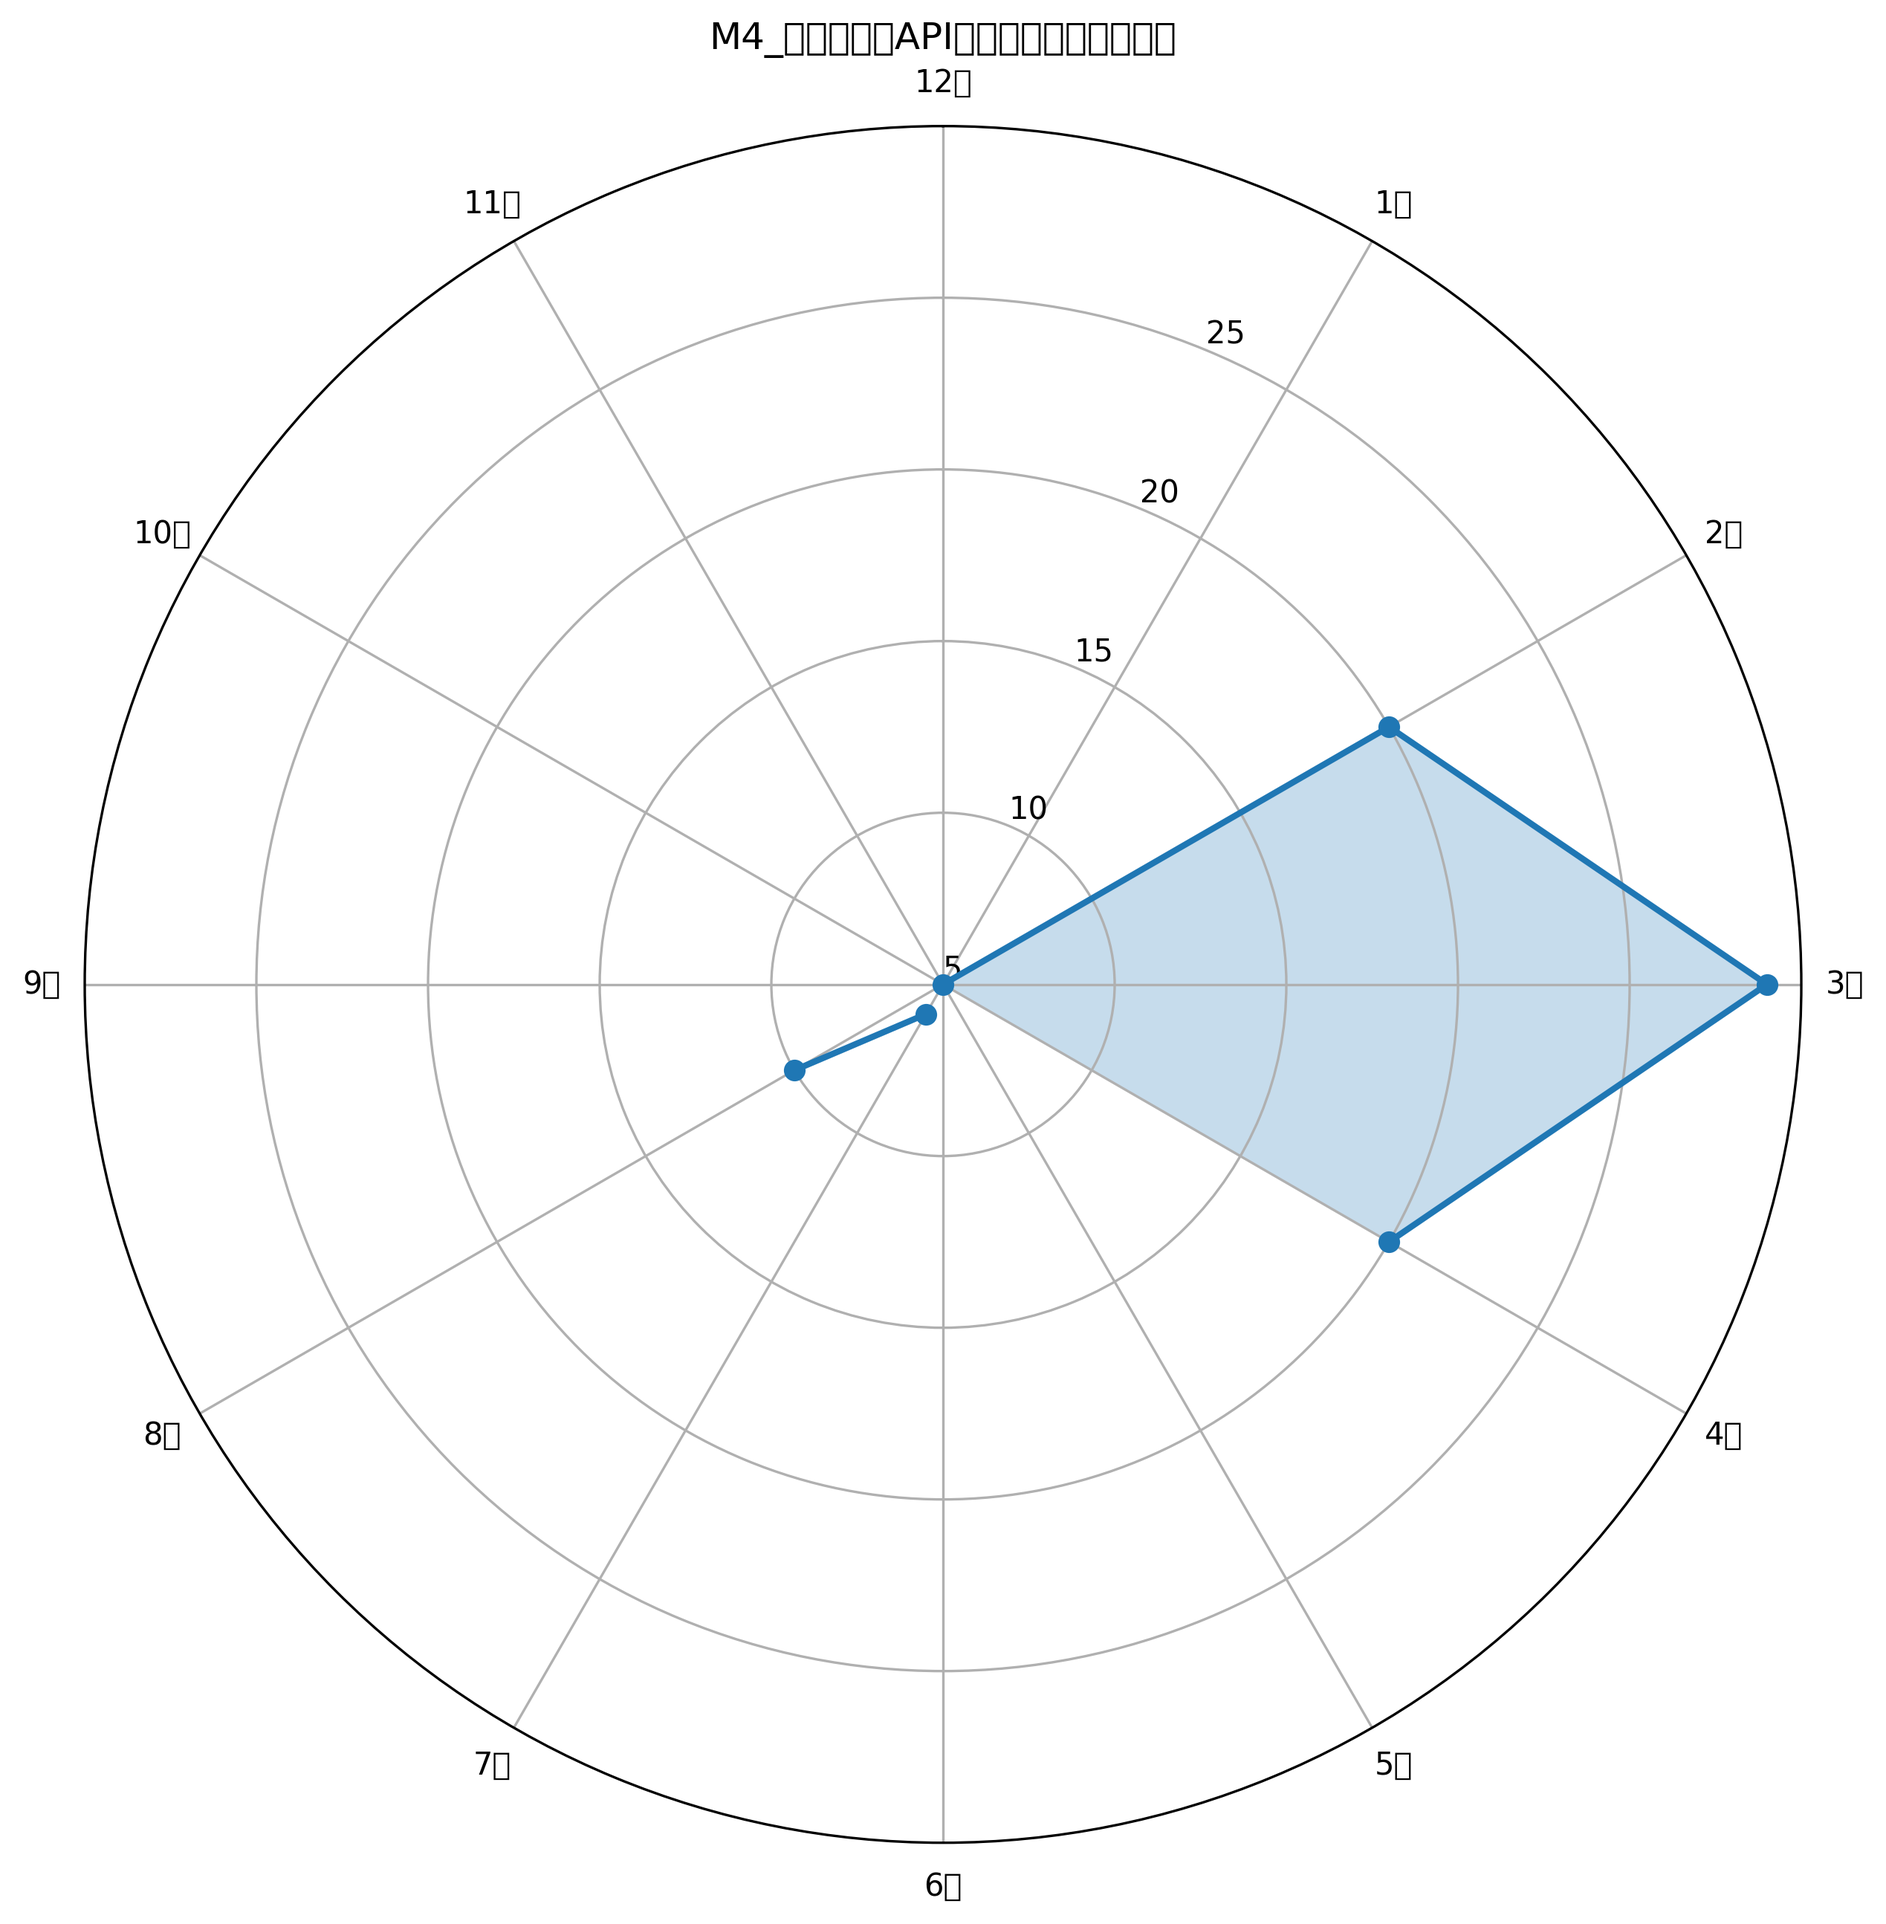
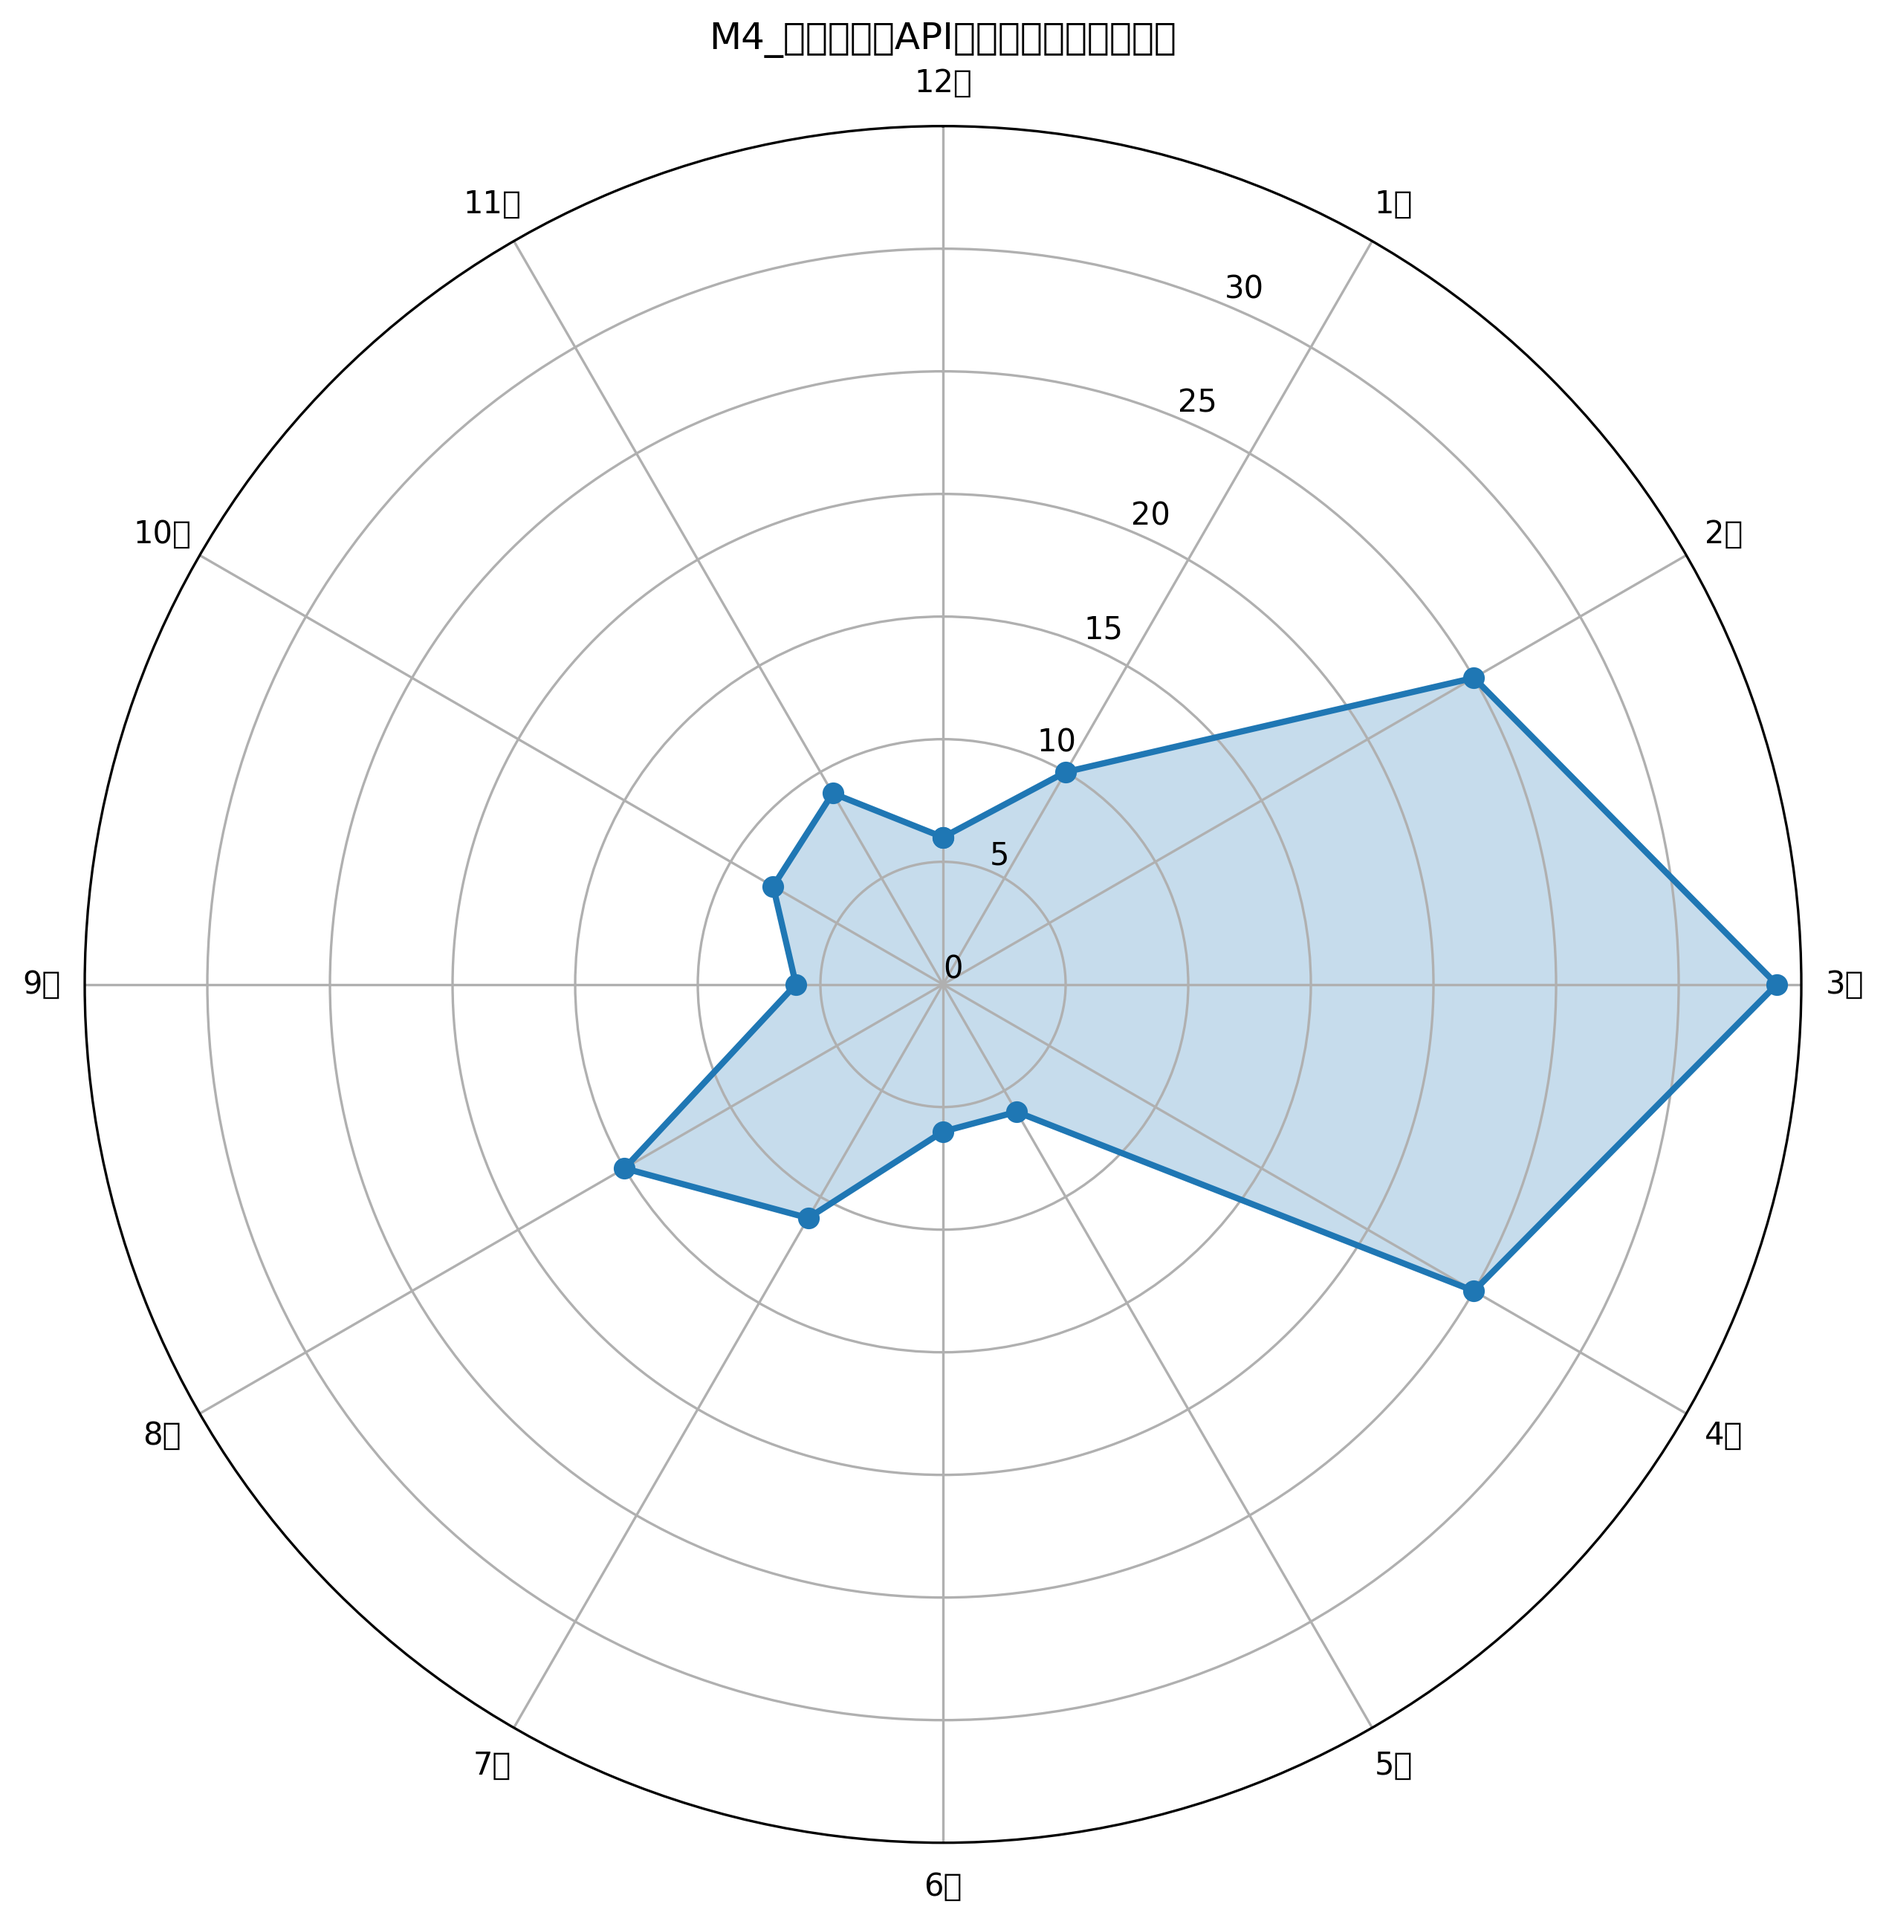
Auto-save: 2025-09-16 05:37:47

diff --git a/report-autogenerator/radar_chart.py b/report-autogenerator/radar_chart.py
@@ -12,7 +12,8 @@ def create_radar_chart(counts, sheet_name, out_dir):
     """
     # データを12時から時計回りに配置 [12,1,2,...,11]
     hour_order = [12] + list(range(1, 12))
-    values = [counts.get(h, 0) for h in hour_order]
+    # 各値に1を加算して基準値を設定（0点の位置を半径1の位置に）
+    values = [counts.get(h, 0) + 1 for h in hour_order]
     
     # グラフを閉じるため最初の値を最後にも追加
     values.append(values[0])
@@ -35,8 +36,8 @@ def create_radar_chart(counts, sheet_name, out_dir):
     # 軸の設定
     ax.set_thetagrids(np.arange(0, 360, 30), labels)
     rmax = max(max(values), 10) + 1
-    ax.set_rlim(5, rmax)
-    rticks = list(range(5, rmax, 5))
+    ax.set_rlim(0, rmax)  # 原点を0に設定
+    rticks = list(range(0, rmax, 5))  # 目盛りを0から開始
     ax.set_yticks(rticks)
     
     # タイトル
